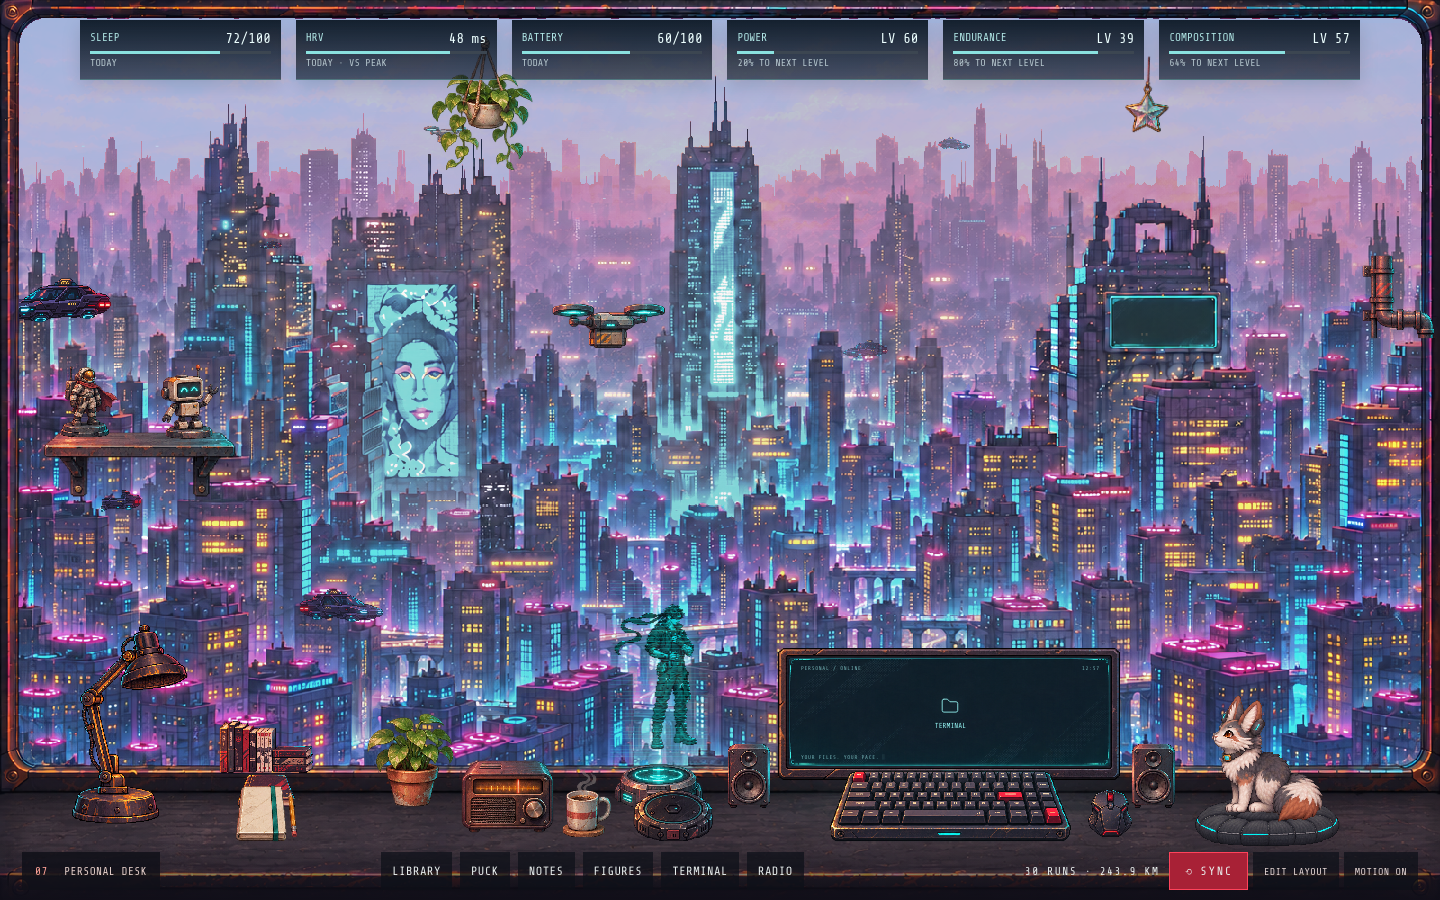
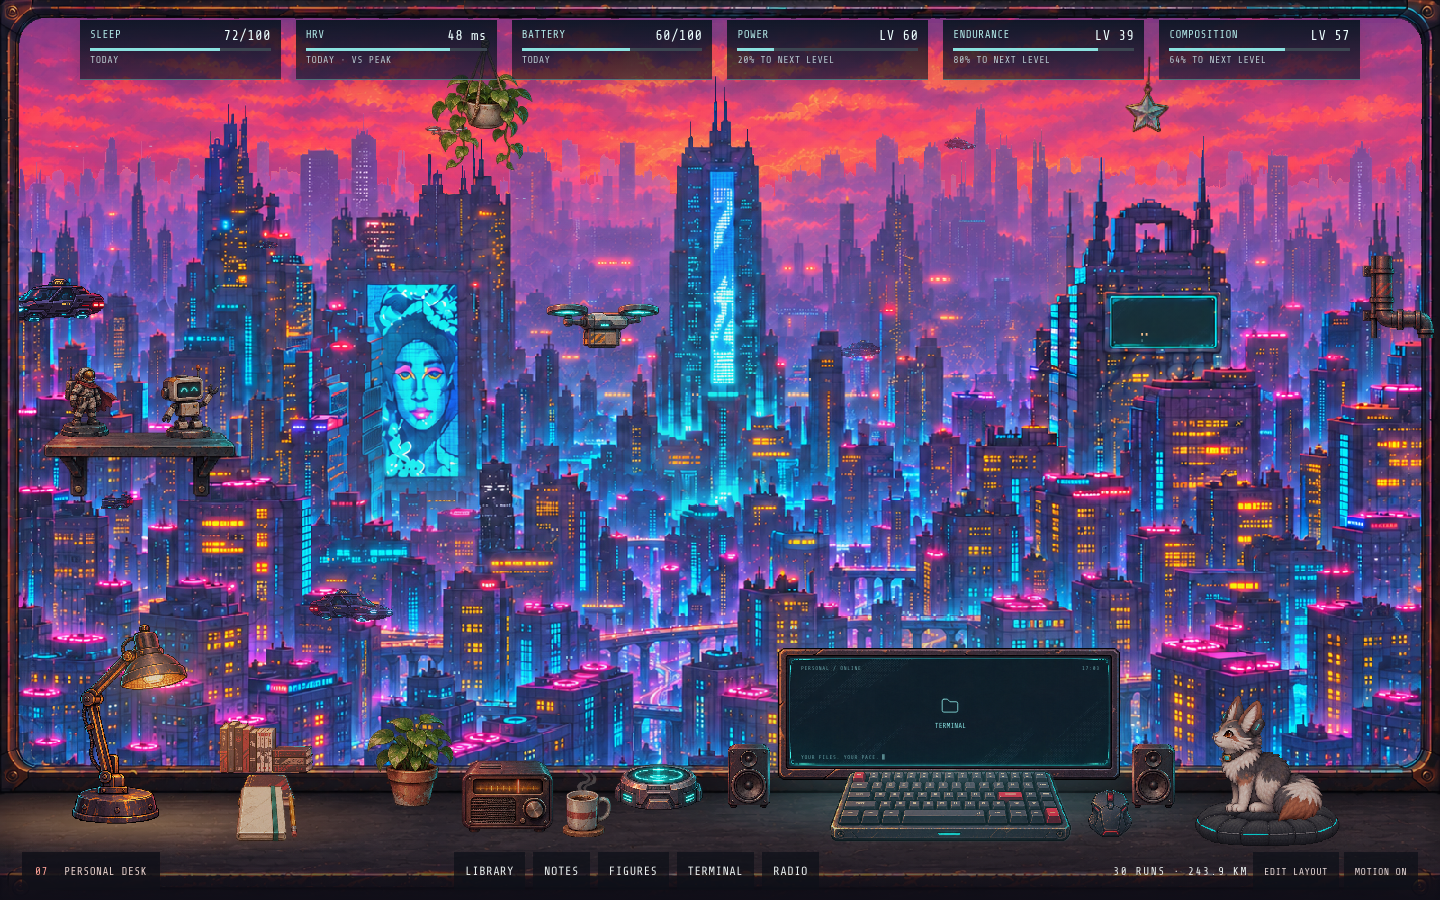
chore(release): v0.7.0

diff --git a/CHANGELOG.md b/CHANGELOG.md
@@ -13,6 +13,8 @@ Rules:
 
 ## [Unreleased]
 
+## [0.7.0] - 2026-11-13
+
 ### Added
 - Hologram showcase (#42): click the hologram on the desk and the scene zooms in on a body showcase (Esc or a click outside zooms back out; with reduced motion it fades). The hologram body is lit per stat, brighter for a higher level: STAMINA lights the legs, STRENGTH the arms and torso, LEANNESS the outline, each with a callout line and its level and tier. Next to it: today's CONDITION as one aura and one word (READY, STEADY or RECOVER, taken from the existing readiness advice), your JOURNEY since each stat's fresh start (level and value change, a bar and a small chart), and LAST SYNC with the **SYNC GARMIN** button, which after a sync shows what it brought (new runs, km, wellness days, stat changes). While a sync runs the hologram base on the desk pulses with light and shows the label SYNCING…, also when the showcase is closed; it stands still with MOTION OFF or reduced motion. New hologram artwork (body and zone layers); without the artwork file the showcase still works with the tinted avatar.
 - The dashboard has a new `journey` field per stat (start reading since the fresh start plus one point per day), read from the stat history.

diff --git a/ROADMAP.md b/ROADMAP.md
@@ -10,12 +10,13 @@
 - A living desk: a panoramic room, a walking cat, a real day/night cycle, lighting, city life and weather (#17)
 - The desk radio with Spotify stations in the Mac app (#33)
 - BODY, STUDY and SHELF open inside the desk terminal on the monitor; no separate pages (#35)
-
-## Next
-
 - Hologram showcase: the desk hologram shows your body stats, your condition and your journey, and runs the Garmin sync (#42)
 - Bookcase close-up: browse your collection as covers on shelves, replacing the shard cache (#43)
 - NOTES and FIGURES in the Solace style (#44)
+
+## Next
+
+To be planned.
 
 ## Maybe later
 

diff --git a/README.md b/README.md
@@ -18,6 +18,8 @@ trademarks belong to their owners, and none of those names is used as the name o
 ![The start screen](docs/screenshots/start.png)
 
 ![The desk](docs/screenshots/desk.png)
+![The body showcase](docs/screenshots/showcase.png)
+![The bookcase](docs/screenshots/bookcase.png)
 ![BODY](docs/screenshots/body.png)
 ![SHELF](docs/screenshots/shelf.png)
 
